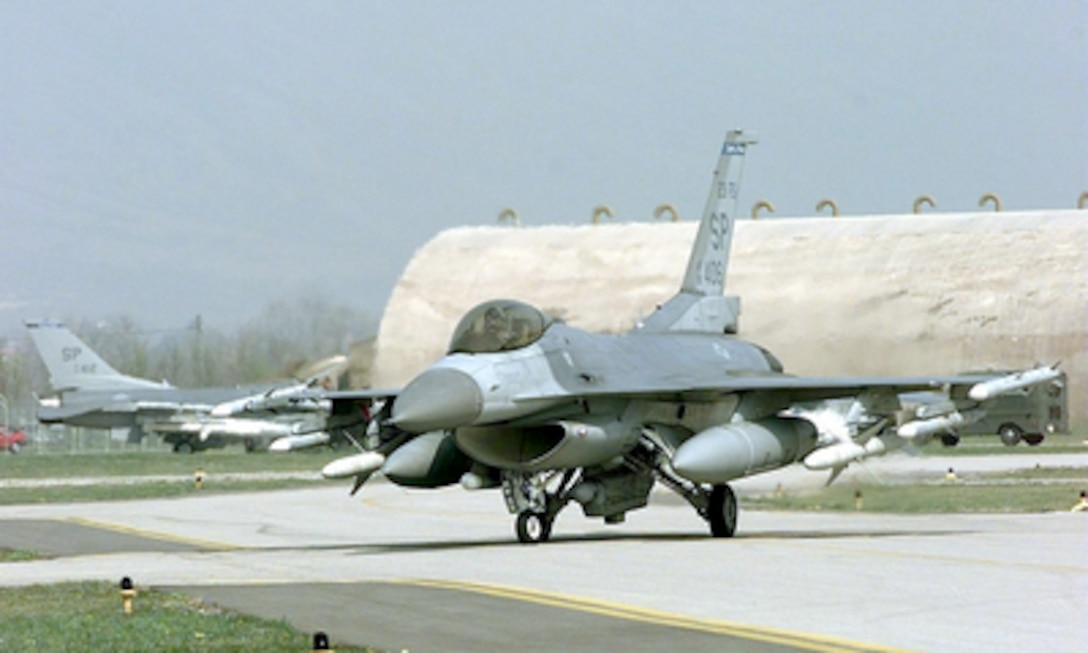
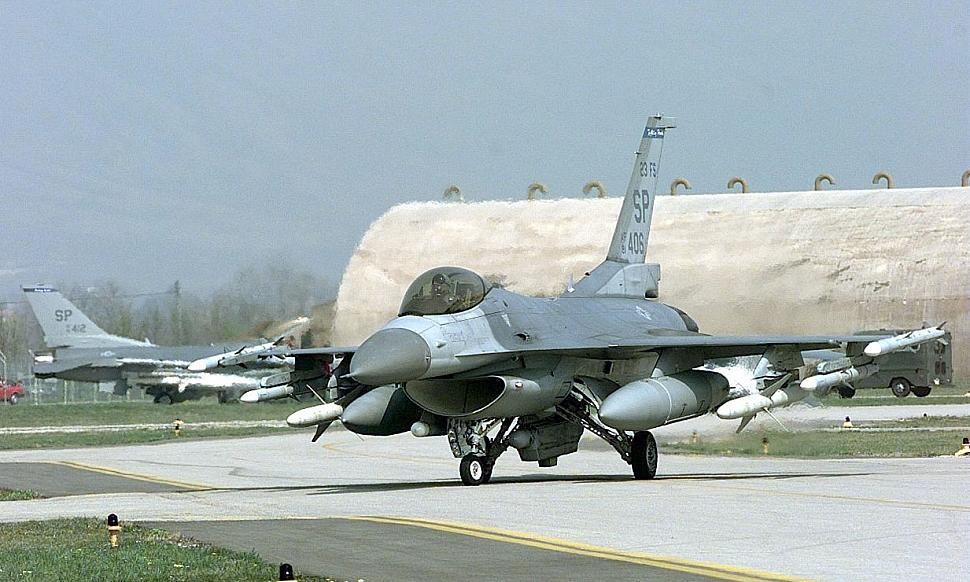
add op allied force f16s

diff --git a/F-16C_various_Allied-Force/note.md b/F-16C_various_Allied-Force/note.md
@@ -1,0 +1,12 @@
+## F-16C 89-2137 various Operation Allied Force
+
+- decals: Bullseye 48-023 "Warheads on Foreheads"
+
+
+### Aircraft
+
+- F-16C 91-0378 Block 50D CC-76; 78th FS "Bushmasters" 20 FW during Allied Force
+  - photo mentions: USAF F-16C block 50 #91-0378 photographed on June 5th, 1999 at Aviano AB. The aircraft is a boss bird of the 78th Fighter Squadron. [Photo by Sergio Gava]
+  - Flew the 1000 Operation Allied Force mission and wore a special marking above the gun barrel. 
+- F-16C 91-0406 Block 50D CC-104; 23rd FS "Fighting Hawks" 52nd FW during Allied Force
+- F-16C 91-0415 Block 50D CC-113; 23rd FS "Fighting Hawks" 52nd FW during Allied Force
